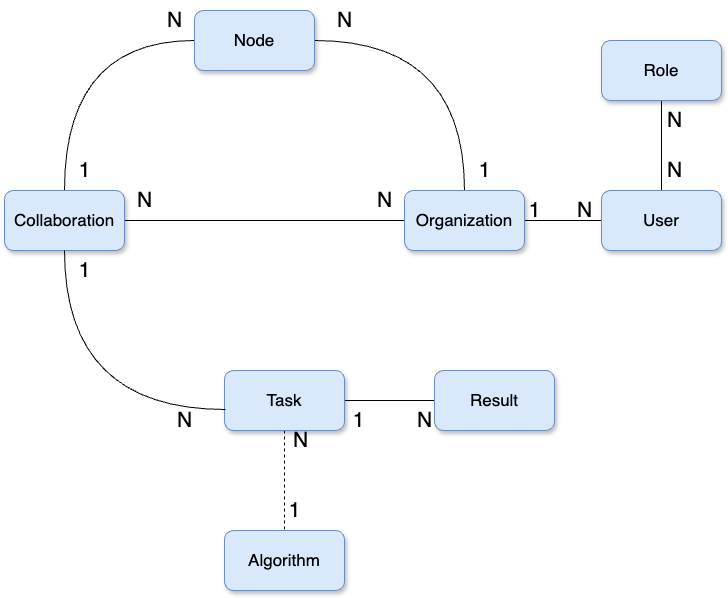
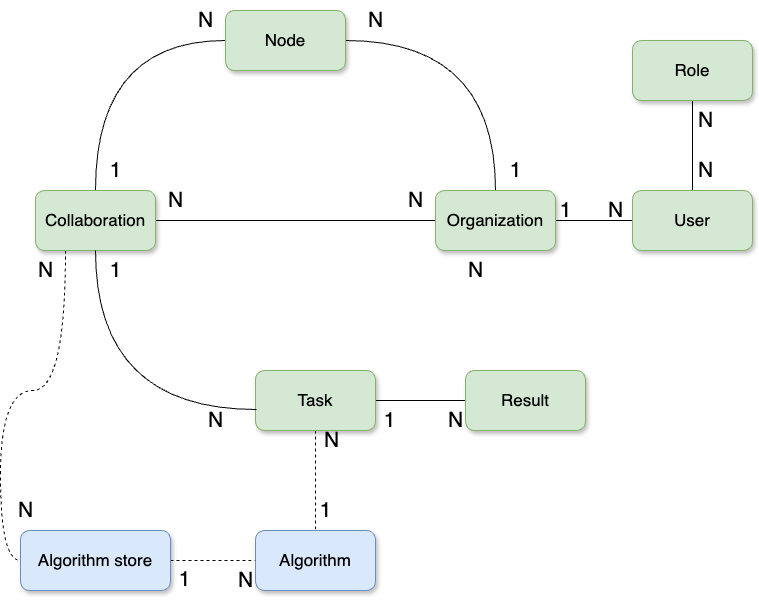
- The first part of Episode 4 was moved (and further refined) to this one (as an introduction to the UI) - The ER model as presented could be way too complex to be 'conceptualized' by the participants. I created a simplified version focused on what is key for this episode, including other key concep

diff --git a/episodes/chapter3.md b/episodes/chapter3.md
@@ -14,7 +14,7 @@ exercises: 3
 
 ::::::::::::::::::::::::::::::::::::: objectives
 
-- Explore specific data analysis scenarios that further illustrates the concept of collaboration
+- Explore specific data analysis scenarios that further illustrate the concept of collaboration
 - Understand the concept of 'algorithm trustworthiness' in the context of a vantage6 collaboration
 - Understand v6's algorithm-store current and envisioned features
 - Understand the UI-based approach for performing a data analysis through the given scenarios 
@@ -26,7 +26,7 @@ exercises: 3
 
 To navigate vantage6's UI seamlessly, it's essential to grasp the platform's fundamental concepts and their interconnections, as the UI design reflects these relationships. The following is a simplified model of vantage6 concepts, where a `1-n` relationship means that the entity on the left side of the relationship is related to one or more entities on the right side. For instance, a **collaboration** involves one or more **nodes**, but each **node** can only be linked to exactly one **collaboration**. An `n-n` relationship is a many-to-many relationship: for instance, a **collaboration** can involve multiple **organizations**, and at the same time, each **organization** can participate in multiple **collaborations**.
 
-![vantage6 relations between entities](fig/chapter3/v6_entitites_simplified.png)
+![Vantage6 core concepts](fig/chapter3/v6_entitites_simplified.png)
 
 Given the above, the following are the most important concepts to be considered for this episode:
 
@@ -50,19 +50,19 @@ Given the above, the following are the most important concepts to be considered 
 - **Result**: the output generated by the execution of an **algorithm** as part of a **task**. 
 - **Algorithm**: computational models or processes that are executed on data. Compatible algorithms are those that adhere to the Vantage6 framework, enabling them to be securely distributed to **nodes** for execution.
 
-### Where are the concepts in the UI?
+### Where are these concepts in the UI?
 
 After logging in to the vantage6 UI, you will see the start page.
 
 ![vantage6 UI start page](fig/chapter3/ui_start_page.png)
 
-There are some collbarations displayed on the start page. Clicking one of the collaborations will show the tasks of that collaboration.
+There are some collaborations displayed on the start page. Clicking one of the collaborations will show the tasks of that collaboration.
 
 ![vantage6 UI tasks page](fig/chapter3/ui_task_page.png)
 
 The start page also contains a button `Administration` in the top right corner. Clicking on this button will redirect you to the administration page.
 
-In the administration page, you can manage the entities of vantage6. The entities are divided into tabs: `Organizations`, `Collaborations`, `Roles`, `Users`, and `Nodes`. You can click on an entity to see more details or to edit the entity. We will get back to this later in more detail.
+On the administration page, you can manage the entities of vantage6. The entities are divided into tabs: `Organizations`, `Collaborations`, `Roles`, `Users`, and `Nodes`. You can click on an entity to see more details or to edit the entity. We will get back to this later in more detail.
 
 ![vantage6 UI administration page](fig/chapter3/ui_admin_page.png)
 
@@ -80,9 +80,9 @@ Can you find the `Organizations`, `Collaborations`, `Roles`, `Users`, and `Nodes
 
 
 
-## A hypothetical case study using vantage6 collaborations
+## From theory to practice: a hypothetical case study using vantage6 collaborations
 
-In the context of vantage6, a collaboration refers to an agreement between two or more parties to participate in a study or to answer a research question together. This concept is central to the Privacy Enhancing Technologies (PETs) that vantage6 supports. Each party involved in a collaboration remains autonomous, meaning they retain control over their data and can decide how much of their data to contribute to the collaboration's global model and which algorithms are allowed for execution. 
+As previously discussed, in vantage6 a collaboration refers to an agreement between two or more parties to participate in a study or to answer a research question together. This concept is central to the Privacy Enhancing Technologies (PETs) that vantage6 supports. Each party involved in a collaboration remains autonomous, meaning they retain control over their data and can decide how much of their data to contribute to the collaboration's global model and which algorithms are allowed for execution. 
 
 To illustrate this, let's analyze a hypothetical scenario: two international research projects relying on vantage6 technology on the same server: 
 
@@ -96,32 +96,37 @@ Following vantage6's concepts, this scenario would involve two collaborations, o
 ![Hypothetical collaborations scenario](fig/chapter3/orgs_n_collabs_scenario.png)
 
 
-## Algorithms trustworthiness on a federated setting
+### Algorithms trustworthiness in a federated setting
 
 While a vantage6-supported research infrastructure like the one described above offers a strong defense against many data privacy risks, there remains one crucial security aspect that falls outside the platform's scope: the validation of the code that will run on this infrastructure. For instance, the administrators of the nodes running within each organization are responsible for defining which algorithms (i.e., [which container images](https://docs.vantage6.ai/en/main/node/configure.html#all-configuration-options)) will be allowed for execution on the respective collaborations. As this is a critical and complex task that entails activities like code analysis and verification, working with algorithms from trusted sources is the primary line of defense against potential threats.
 
 Vantage6's algorithm store feature aims to enhance trustworthiness by offering a centralized platform for managing pre-registered algorithms. This serves as an alternative to using algorithms from unknown authors or those lacking transparency regarding their development process and status. The algorithm store currently allows researchers to explore which algorithms are available and how to run them. This, along with its integration with vantage6's UI, streamlines task execution requests within collaborations.
 
-As of the time of writing this tutorial, efforts are underway to integrate additional information to the algorithms metadata such as creators and code reviewers. Moreover, plans are in place to incorporate the algorithm review process into the publication procedure for any algorithms in the store.
+As of the time of writing this tutorial, efforts are underway to integrate additional information to the algorithm metadata such as creators and code reviewers. Moreover, plans are in place to incorporate the algorithm review process into the publication procedure for any algorithms in the store.
 
-## Running a PET (privacy-enhancing technology) analysis without programming!
+### Running a PET (privacy-enhancing technology) analysis without programming!
 
-In this episode, you will perform a PET analysis on an existing vantage6 collaborations (based on 'dummy' nodes) that resemble the two described above. For reference, the datasets of each organization can be seen here (TODO).
+In this episode, you will perform a PET analysis on an existing vantage6 collaboration (based on 'dummy' nodes) that resembles the two described above. For reference, the datasets of each organization can be seen here (TODO).
 
 ::::::::::::::::::::::::::::::::::::: challenge
 
-## Challenge 1: understanding a simple federated algorithm
+## Challenge 2: understanding a simple federated algorithm
 
-First, let's take a look at one of the federated algorithms -available on the vantage6's community store- that will be used in this episode: [a federated average](https://github.com/IKNL/v6-average-py/blob/master/v6-average-py/__init__.py). Based on the code and its comments:
+First, let's take a look at one of the federated algorithms -available on the vantage6's community store- that will be used in this episode: [a federated average](https://github.com/IKNL/v6-average-py/blob/master/v6-average-py/__init__.py). 
 
-- What is the difference between the 'central_average' and the 'partial_average' functions?
-- What would happen if this analysis is started in a collaboration that has one of its nodes 'offline'?
+Analyze the algorithm based on the code and its comments and answer the following questions:
+
+- How are the `central_average` and `partial_average` functions related?
+- Why does the `central_average` function, unlike `partial_average`, doesn't get any data as an input?
+- Analyze and discuss the potential outcomes if a Task to execute `central_average` is initiated within a collaboration where one of the nodes is offline.
 
 ::::::::::::::::::::::::::::::::::::::::::::::::
 
+
+
 ::::::::::::::::::::::::::::::::::::: challenge
 
-## Challenge 2: exploring the status of existing collaborations configured on a vantage6 server
+## Challenge 3: exploring the status of existing collaborations configured on a vantage6 server
 
 Below are the administrator credential of GHT and PhY24 collaborations (passwords will be given by the instructors).
 
@@ -130,7 +135,18 @@ Below are the administrator credential of GHT and PhY24 collaborations (password
 | PhY24-admin | Collaboration Admin | PhY24         |
 | GHT-admin   | Collaboration Admin | GHT           |
 
-Check the status of the nodes of each collaboration: 
+Using these credentials check the status of both collaborations. Given this and your algorithm analysis from Challenge #2 answer the following:
+
+1. Which collaborations are ready for creating a Task for the __federated average__ algorithm?
+2. If one of the collaborations is not ready, which organization you would need to contact in order to make it ready for executing the algorithm too?
+
+::::::::::::::::::::::::::::::::::::::::::::::::
+
+:::::::::::::::::::::::: solution
+
+## Solution steps
+
+To check the status of the nodes of each collaboration: 
 
 1. Log in to each one with the given credentials
 2. Click on 'Administration' on the top of the UI
@@ -139,8 +155,19 @@ Check the status of the nodes of each collaboration:
 
 ![Collaboration status](fig/chapter3/collab-status-offline.png)
 
-- Based on what you see on Challange #1, which collaboration would be ready to request the 'Average' algorithm on it?
-- For the other collaboration, which organization you would need to reach in order to fix the issue?
+:::::::::::::::::::::::::::::::::
+
+::::::::::::::::::::::::::::::::::::: challenge
+
+## Challenge 4: adding an algorithm store to an organization
+
+In order to execute the __average algorithm__ on a given collaboration, considering the previous discussion on algorithm trustwortiness, you need to first register an algorithm store on it first. Use the credentials given for Challenge #4 to register the 'community store', which contains the said algorithm: `https://store.cotopaxi.vantage6.ai`
+
+::::::::::::::::::::::::::::::::::::::::::::::::
+
+:::::::::::::::::::::::: solution
+
+## Solution steps
 
 You will now link the 'community-store' to the collaboration whose nodes are ready for it. 
 
@@ -151,19 +178,20 @@ You will now link the 'community-store' to the collaboration whose nodes are rea
 5. Make sure the store is now shown on the collaboration details:
 ![Community store entry on the collaboration details](fig/chapter3/community-store-entry.png)
 
-::::::::::::::::::::::::::::::::::::::::::::::::
+:::::::::::::::::::::::::::::::::
 
 ::::::::::::::::::::::::::::::::::::: challenge
-## Challenge 3: your first algorithm execution as a researcher
+
+## Challenge 5: your first algorithm execution as a researcher
 
 Now, you'll take on the role of the researcher within the collaboration for which you've just established the algorithm store. With this role, you will finally request the execution of the algorithm. 
 
 1. log in as a researcher using the corresponding credentials below:
 
-    |  User  |  Roles   |  Collaboration   |
-    |----|-----|-----|
-    |PhY24-rs1  | Researcher    |PhY24      |
-    |GHT-rs1  | Researcher    |GHT    |
+    |  User     |  Roles        |  Collaboration   |
+    |-----------|---------------|------------------|
+    |PhY24-rs1  | Researcher    |PhY24             |
+    |GHT-rs1    | Researcher    |GHT               |
 
 2. Select the collaboration given on the front page, and select 'Tasks' from the panel on the left.
     ![Collaboration researcher view](fig/chapter3/collab-researcher-view.png)
@@ -172,7 +200,7 @@ Now, you'll take on the role of the researcher within the collaboration for whic
 
     ![Algorithm selection](fig/chapter3/task-alg-selection.png)
 
-4. Now the UI will let you choose between the two functions you explored in Challenge #1. First, try to run the 'partial_average' on all the nodes individually.
+4. Now the UI will let you choose between the two functions you explored in Challenge #1. First, try to run the `partial_average` on all the nodes individually.
 
     ![Running a function on all nodes](fig/chapter3/task-partial-on-individial-orgs.png)
 
@@ -182,8 +210,12 @@ Now, you'll take on the role of the researcher within the collaboration for whic
     ![alt text](fig/chapter3/task-results.png)
 
 
-   - Based on your understanding of the 'central_average' function, if you create one a new task, which organization nodes should you choose this time in order to actually calculate the overall (across all the datasets) average? Experiment with this and discuss the results with the instructors.
-   - What would happen if you select an alpha-numerical column (e.g., 'participant_pseudo_id')? Do this experiment and explore the generated error logs. Discuss with the instructors how these logs can be used to diagnose any task execution issues.
+Based on these results, answer the following:
+
+
+1. If you repeat the same exercise but with the `central_average` function (refer to Challenge #2 if needed), which organization nodes should you choose this time to actually calculate the overall (across all the datasets) average? Experiment with this and discuss the results with the instructors.
+
+2. What would happen if you select an alpha-numerical column (e.g., 'participant_pseudo_id')? Do this experiment and explore the generated error logs. Discuss with the instructors how these logs can be used to diagnose any task execution issues.
 
 ::::::::::::::::::::::::::::::::::::::::::::::::
 
